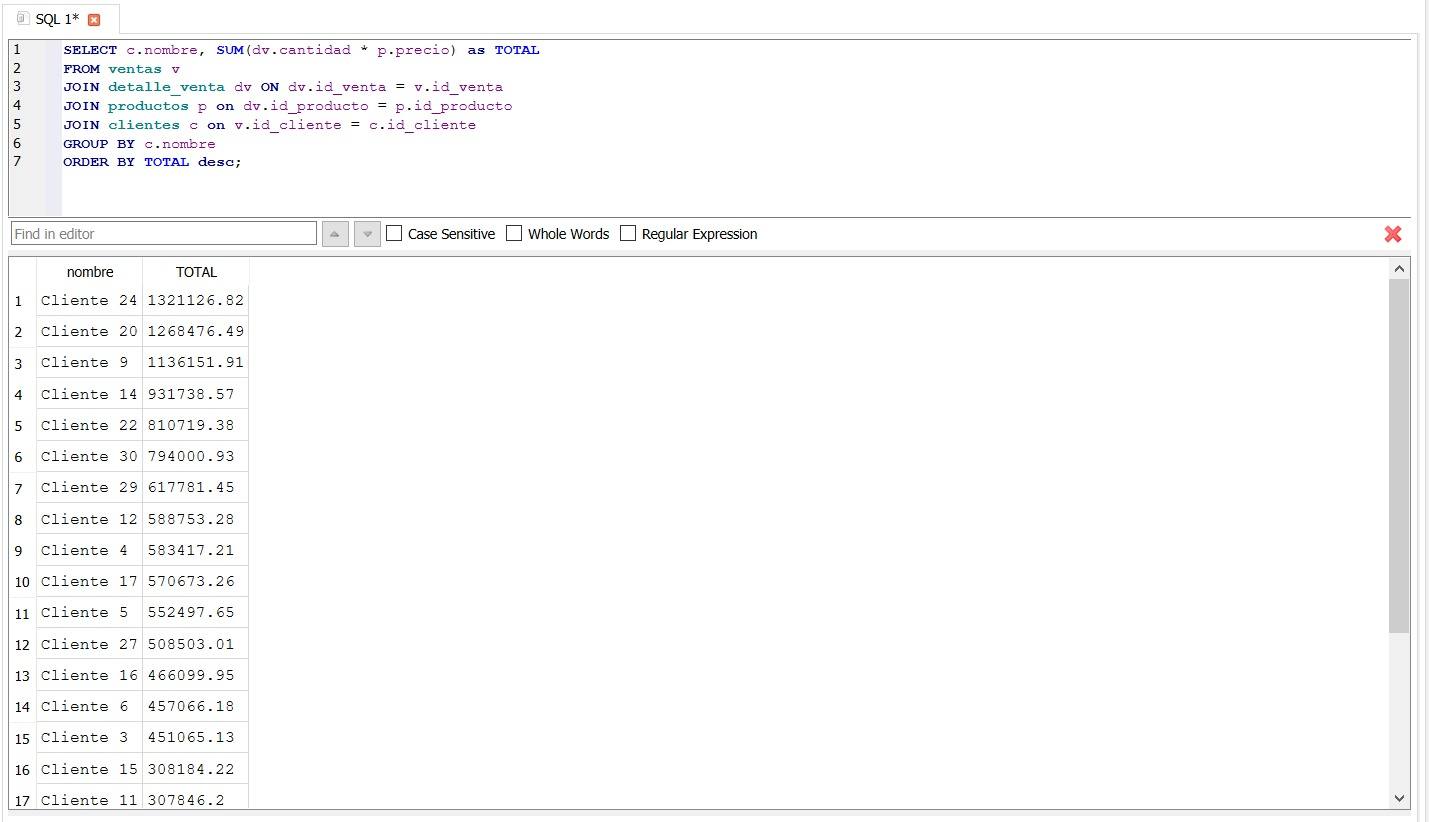
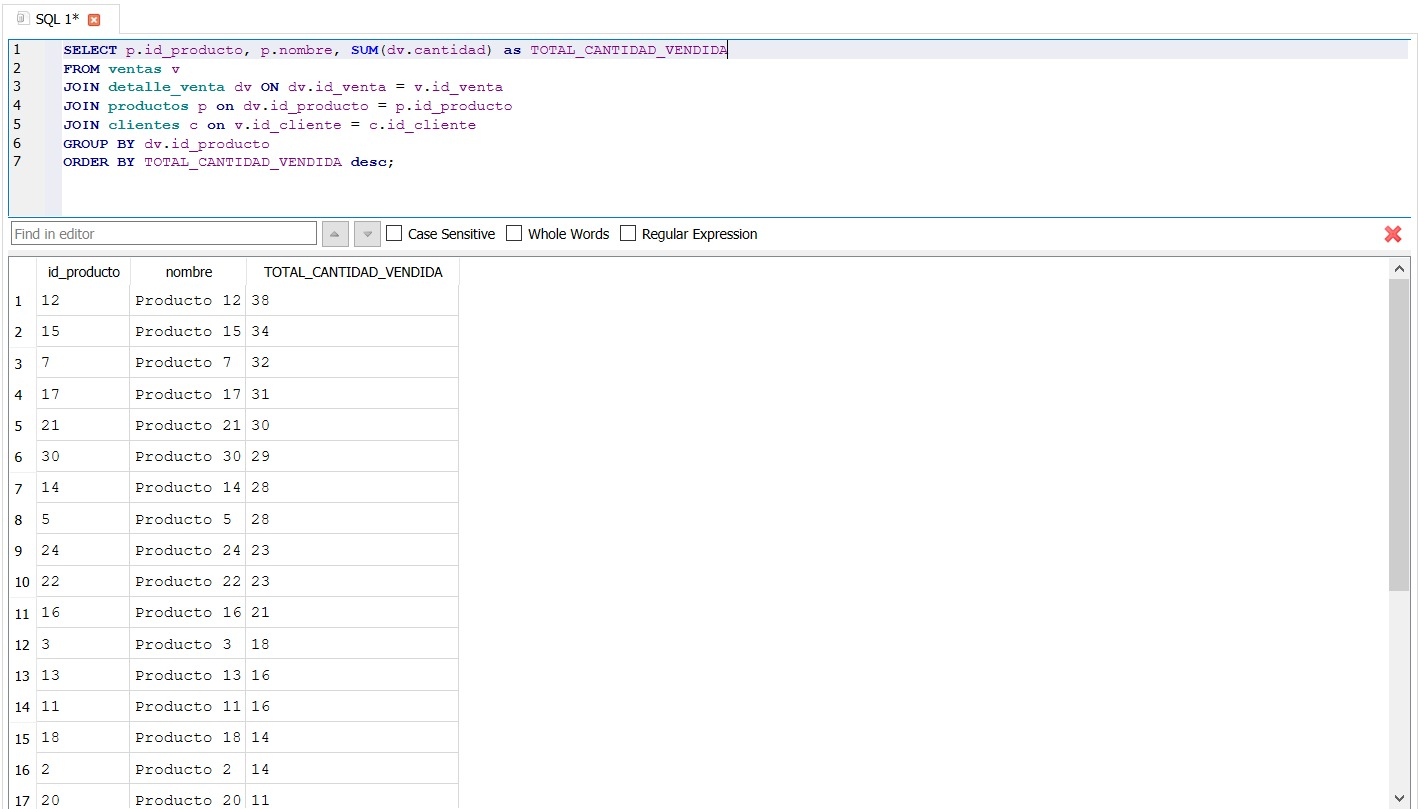
ventas sql + fix

Changed region(s): [[0.0, 0.2472, 1.0, 1.0], [0.0, 0.0, 1.0, 0.2163]]

diff --git a/SQL/Ventas/Ventas.md b/SQL/Ventas/Ventas.md
@@ -2,18 +2,15 @@
 
 
 #### OBJETIVO
-La finalidad de este informe es analizar el comportamiento de las ventas de toda la línea de productos y en todas las provincias durante el periodo 2025.
+El propósito de esta práctica es realizar algunas consultas a la base de datos obtenida referida a una base de ventas y productos.
 
 #### PROCEDIMIENTO
-```
-SELECT v.id_venta, v.fecha, c.nombre, p.nombre, dv.cantidad, p.precio, dv.cantidad * p.precio as TOTAL
-FROM ventas v
-JOIN detalle_venta dv ON dv.id_venta = v.id_venta
-JOIN productos p on dv.id_producto = p.id_producto
-JOIN clientes c on v.id_cliente = c.id_cliente
-ORDER BY v.fecha;
-```
+Contando con la base de datos de `SQLite` sobre ventas, se creó el modelo vinculando las tablas a través de las *foreing key*  como se ve en el diagrama de abajo. Posteriormente se obtuvieron los resultados de las consultas realizadas.
 
+![data_model](https://github.com/cr-tempranam/public-portfolio/blob/develop/SQL/Ventas/img/data_model.png)
+
+
+La primera consulta consiste en saber cuáles fueron las unidades compradas por cada cliente. Se busca saber el nombre del cliente y sus compras realizadas ordenadas de mayor a menor por esos totales. 
 
 ```
 SELECT c.nombre, SUM(dv.cantidad * p.precio) as TOTAL
@@ -24,7 +21,10 @@ JOIN clientes c on v.id_cliente = c.id_cliente
 GROUP BY c.nombre
 ORDER BY TOTAL desc;
 ```
+![Query1](https://github.com/cr-tempranam/public-portfolio/blob/develop/SQL/Ventas/img/Query1.jpeg)
 
+
+Luego se busca conocer cuáles son aquellos productos con la mayor cantidad de unidades vendidas, ordenadas desde el más vendido al de menos ventas. Se solicita el número identificador de producto, su nombre y las unidades vendidas de cada uno.
 
 ```
 SELECT p.id_producto, p.nombre, SUM(dv.cantidad) as TOTAL_CANTIDAD_VENDIDA
@@ -36,19 +36,10 @@ GROUP BY dv.id_producto
 ORDER BY TOTAL_CANTIDAD_VENDIDA desc;
 ```
 
-```
-SELECT p.id_producto, p.nombre, SUM(dv.cantidad) as TOTAL_CANTIDAD_VENDIDA
-FROM ventas v
-JOIN detalle_venta dv ON dv.id_venta = v.id_venta
-JOIN productos p on dv.id_producto = p.id_producto
-JOIN clientes c on v.id_cliente = c.id_cliente
+![Query2](https://github.com/cr-tempranam/public-portfolio/blob/develop/SQL/Ventas/img/Query2.jpeg)
 
-WHERE '2025-01-01' <= v.fecha AND v.fecha < '2025-04-01'
 
-GROUP BY dv.id_producto
-ORDER BY TOTAL_CANTIDAD_VENDIDA desc;
-```
-
+Por último, se necesita hacer la misma búsqueda que la anterior pero para ventas transcurridas entre el 01/01/2025 y el 01/04/2025, y de entre ellas armar un top ten de los productos más vendidos. Para ello mostrar además de los campos anteriores, un campo que haga referencia al número de puesto.
 
 ```
 SELECT ROW_NUMBER() OVER (ORDER BY SUM(dv.cantidad) desc) AS PUESTO,
@@ -65,10 +56,4 @@ ORDER BY TOTAL_CANTIDAD_VENDIDA desc
 LIMIT 10;
 ```
 
-
-
-
-
-
-
-![modelado de datos](https://github.com/cr-tempranam/public-portfolio/blob/develop/PowerBI/Proyecto-FRUTIMAX/img/data_model.png)
+![Query3](https://github.com/cr-tempranam/public-portfolio/blob/develop/SQL/Ventas/img/Query3.jpeg)

diff --git a/SQL/Turnos_médicos/Turnos.md b/SQL/Turnos_médicos/Turnos.md
@@ -10,7 +10,7 @@ A partir de la base de datos de `SQLite` proporcionada, se confeccionó el model
 
 #### PROCEDIMIENTO
 
-Como primera consulta se buscó conocer los turnos confirmados, ordenados de la fecha más cercana a la fecha más lejana. Buscamos saber la identificación del turno, la fecha del turno, el nombre del paciente, el estado de confirmación, especialidad solicitada y médico.
+- Como primera consulta se buscó conocer los turnos confirmados, ordenados de la fecha más cercana a la fecha más lejana. Buscamos saber la identificación del turno, la fecha del turno, el nombre del paciente, el estado de confirmación, especialidad solicitada y médico.
 
 ```
 SELECT t.id_turno, t.fecha, p.nombre AS Paciente, t.estado, e.nombre as Especialidad, m.nombre as Medico
@@ -28,7 +28,7 @@ ORDER BY t.fecha DESC;
 
 
 
-Ahora se busca saber las especialidades con la mayor cantidad de turnos confirmados, y solo ver las primeras 5 especialidades  con más turnos confirmados. 
+- Ahora se busca saber las especialidades con la mayor cantidad de turnos confirmados, y solo ver las primeras 5 especialidades  con más turnos confirmados. 
 
 ```
 SELECT e.nombre as Especialidad, COUNT(*) CANTIDAD_TURNOS
@@ -48,7 +48,7 @@ LIMIT 5;
 
 
 
-Por último intriga conocer la cantidad de veces que tuvo consultas médicas un paciente, independientemente de la especialidad de la que se trate. Se quiere ver solo los nombres de los pacientes y la cantidad de veces que fue atendido, ordenado de manera alfabética.
+- Por último intriga conocer la cantidad de veces que tuvo consultas médicas un paciente, independientemente de la especialidad de la que se trate. Se quiere ver solo los nombres de los pacientes y la cantidad de veces que fue atendido, ordenado de manera alfabética.
 
 ```
 SELECT p.nombre AS Paciente, COUNT(*) CANTIDAD_TURNOS_ATENDIDOS
